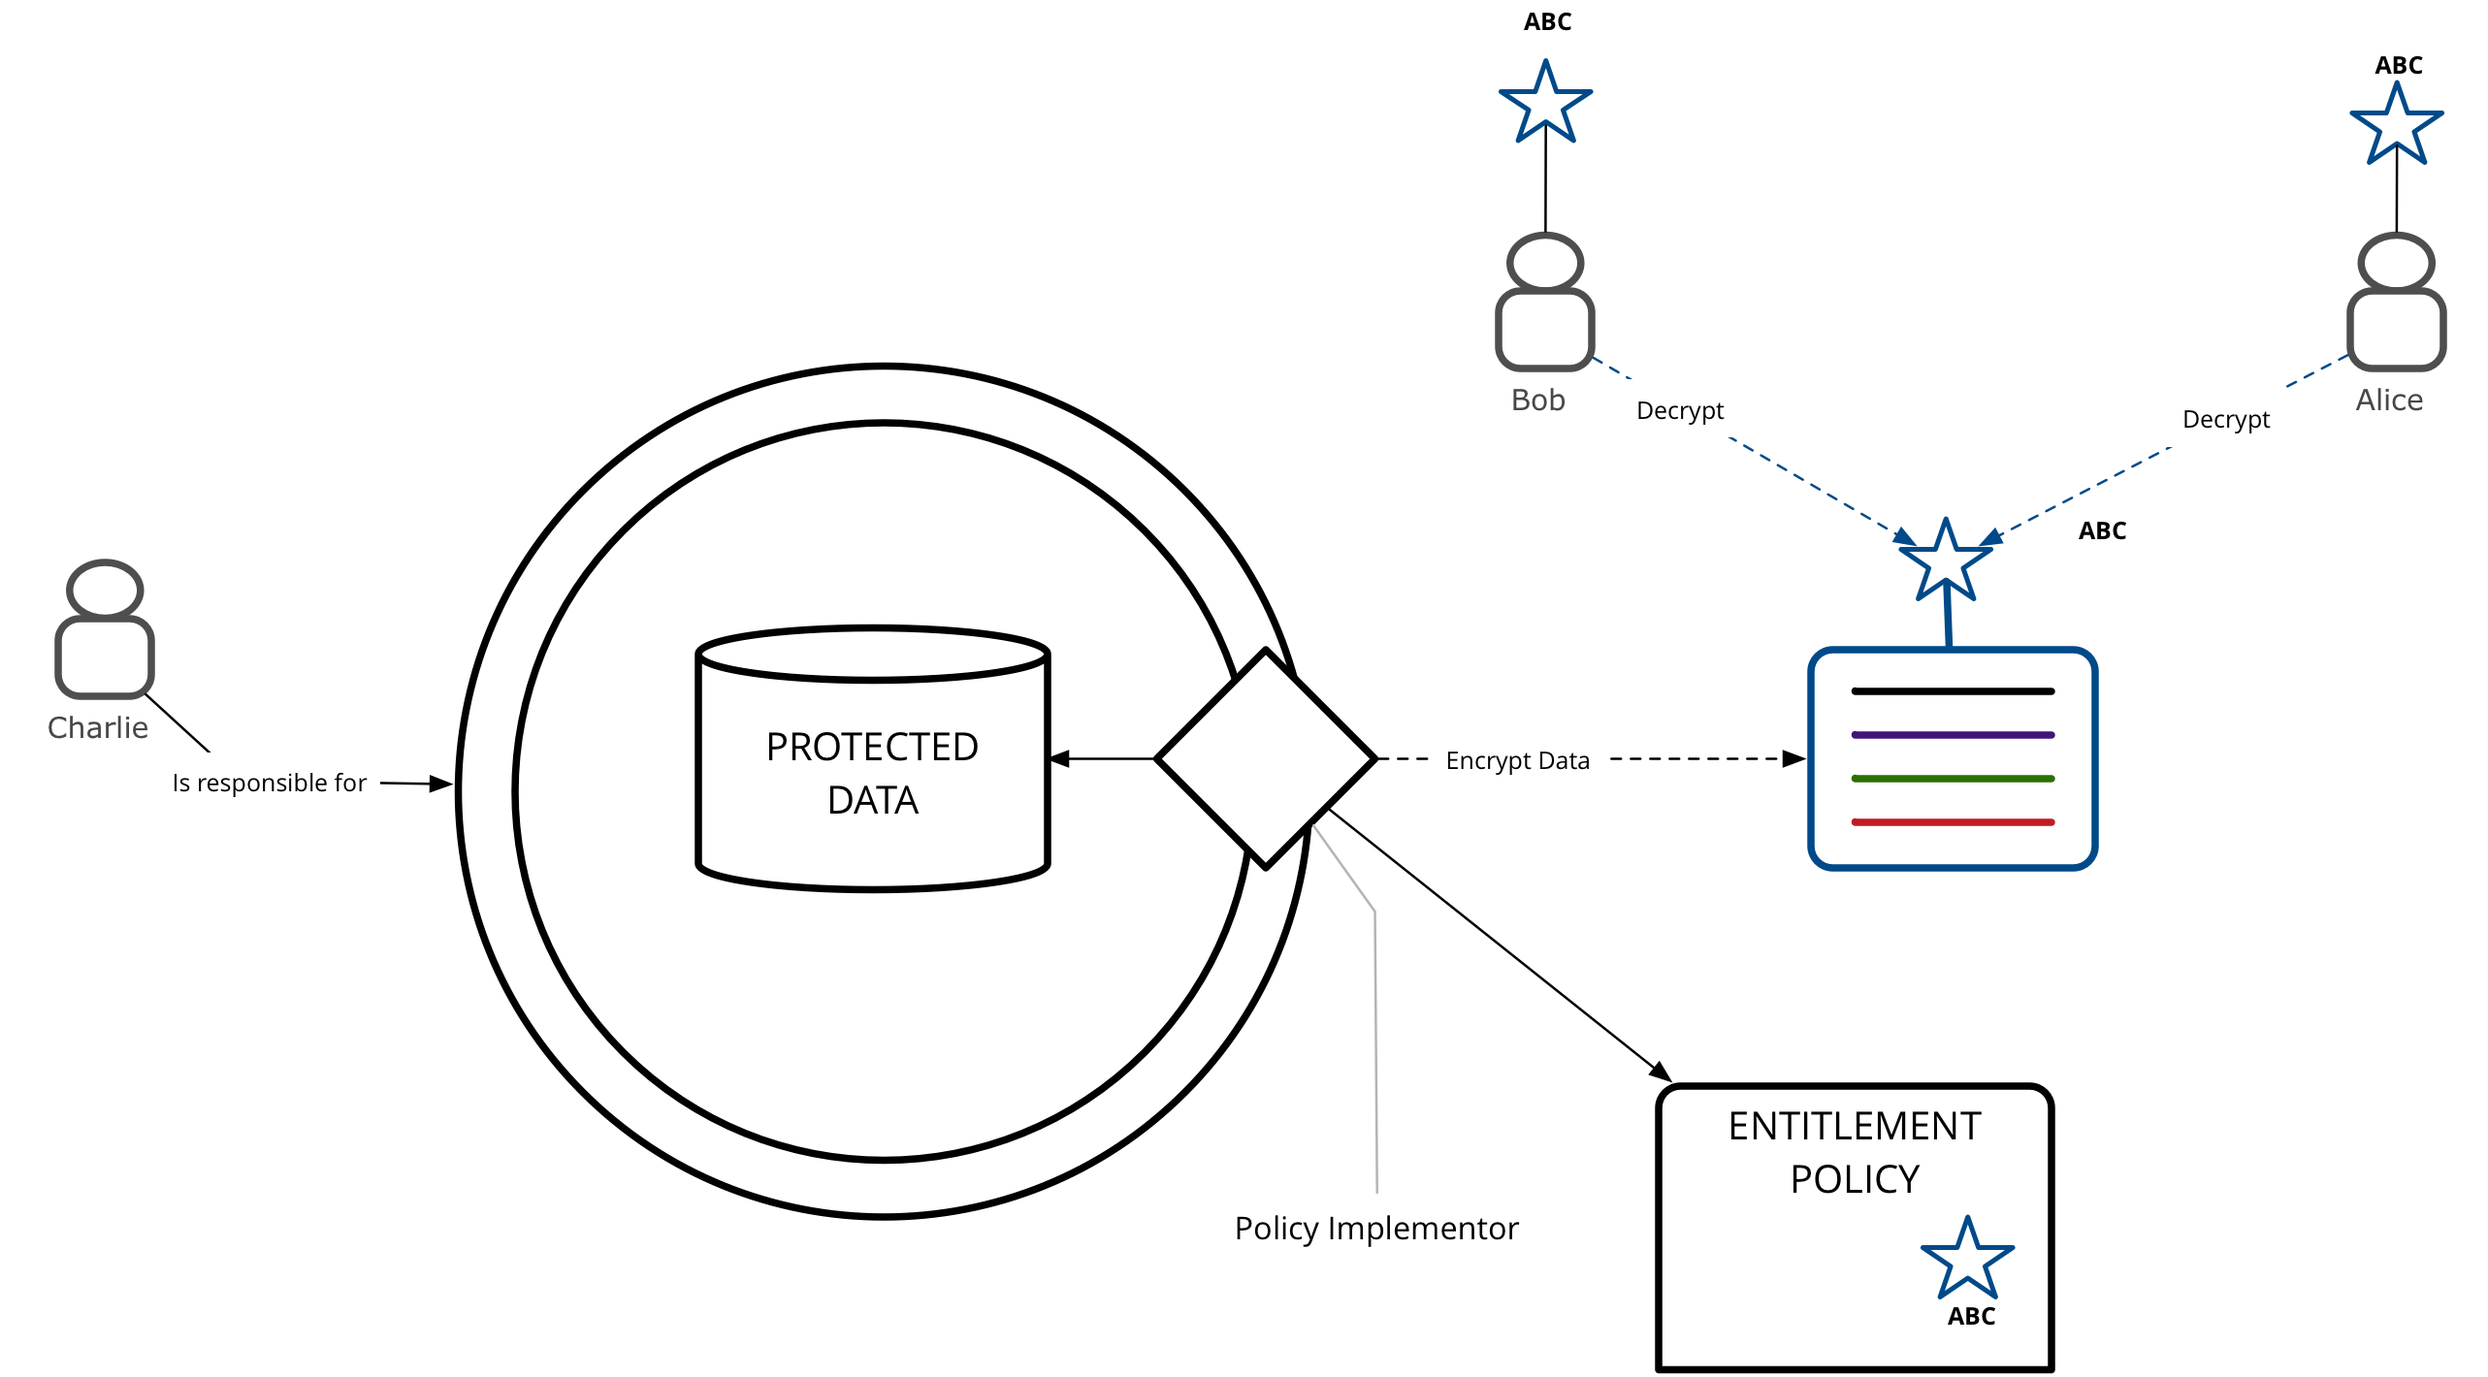
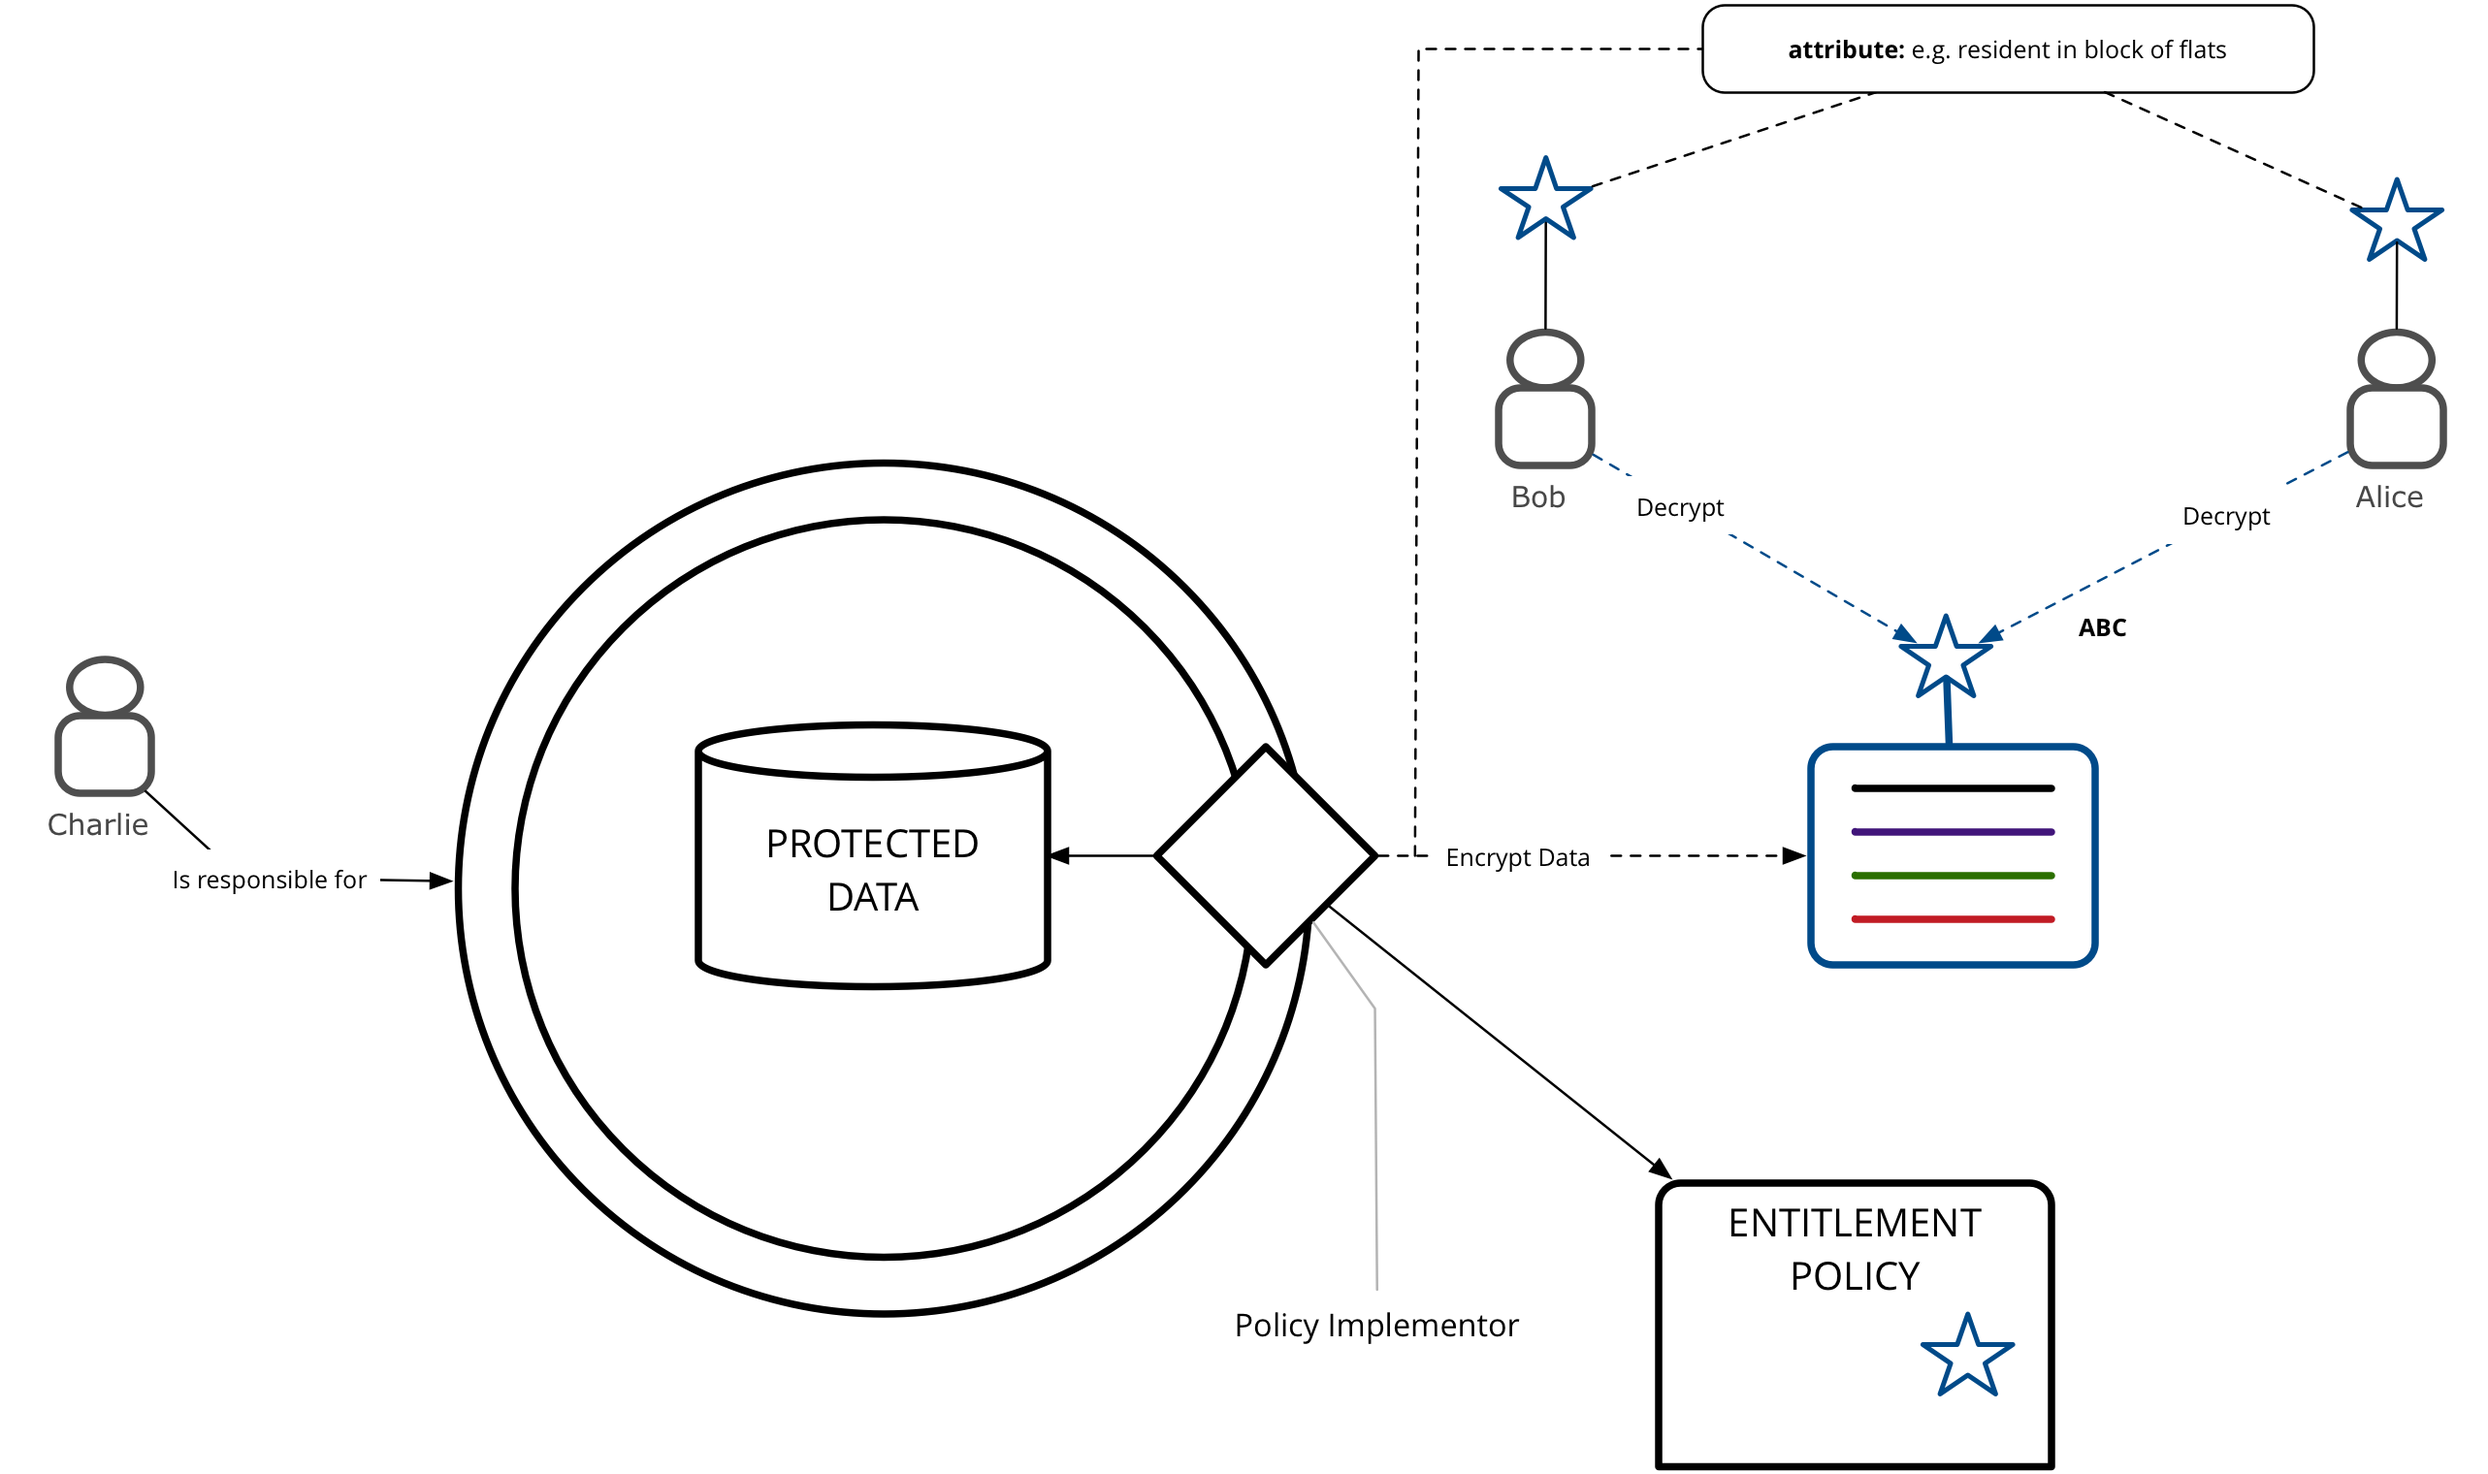
Tidying up entitlements

diff --git a/conceptual_framework.md b/conceptual_framework.md
@@ -174,11 +174,6 @@ Authentication usually involves a participant providing various personally ident
 
 A participant demonstrates control of these **attributes** through some cryptographic means (essentially by holding a private key). This private key may be embedded on a physical device that the participant owns, such as a [Ubikey](https://www.yubico.com/products/yubikey-hardware/) or Smart Card issued by a civic authority. In the case of a device issued by an authority it may also contain attributes of interest to other DECODE applications, such as the fact that one lives in a particular city. These attributes, when stored, record the provenance and the semantic meaning of the relation in their urn, and can so be "officially verified" attributes that certain applications may require (such as voting in participatory budgeting applications, see below).
 
-```comment
-jimb: How does ABC now fit in with the conceptual model of attribute verification and provenance
-```
-
-
 
 ### Attribute Provenance
 
@@ -209,10 +204,6 @@ editorial: are these direct quotes? should be blockquote?
 An attribute in this case is any indivisible piece of personal information that can be described by a bit-string, such as an identifier, a qualification or a property of an entity (Alpar, 2015).
 Informally, an Attribute-Based Credential (ABC) is a cryptographic container of attributes that can provide security assurances for all participants in the system (Alpar, 2015).
 
-```comment
-typical example below, clear why showing a credential is a (legal) *must*.
-though I prefer a non-alcoholic example
-```
 For example, when selling a bottle of wine, a vendor has to verify that their customer is over the age of 18.
 The customer shows their credential; an identity card issued by the government, to convey the information 'date of birth' to the shop owner, in order to prove that they have the attribute 'being over the age of 18'.
 ABCs provide a cryptographic way to authenticate using selectively disclosed personal attributes.
@@ -220,14 +211,13 @@ This means that in the above example, we can use an ABC credential to convey jus
 
 There are three parties involved in the use of ABCs: the issuer of the credential, the user or owner of the credential, and the party that wishes to verify a credential.
 
+![Privacy by design from IRMA](img/Transactions_IRMA_voorbereiding_en.png "User requests a credential")
+
+
+![Privacy by design from IRMA](img/Transactions_IRMA_eerste_gebruik_en.png "User presents credential")
+
 ```comment
-
-  include these images here:
-* https://privacybydesign.foundation/images/Transactions_IRMA_voorbereiding_en.png
-* https://privacybydesign.foundation/images/Transactions_IRMA_eerste_gebruik_en.png
-
- source: Privacy by Design Foundation, https://privacybydesign.foundation/irma-explanation/
-
+Need to update these diagrams so that they use the terms "Issuer" and "Relying party" as "verifier will be confusing with our term "attribute verifier"
 ```
 
 The model for ABCs in DECODE is based on Idemix (Camenisch ... ; IBM ...), since the DECODE implementation requires multiple verifications of non-identifying credentials to be unlinkable.
@@ -252,14 +242,6 @@ In order to make it straighforward for developers to build DECODE applications, 
 
 ## Entitlements
 
-```
-tomd: this needs to be rewritten / elaborated, in the current form it does not address the idea of attribute-based dynamic entitlements.
-jimb: I'm not sure I understand 'attribute-based dynamic entitlements'
-tomd: as in age, f.i.; when I turn 18 entitlements might change
-
-jimb: need to agree our terminology here, subject vs data owner etc
-```
-
 We define two parties in any given data exchange, the **data owner** and the **data consumer**. An **entitlement** is an agreement of disclosure controlled by the **data owner**. A **data entitlement**  concerns the sharing of data. In DECODE an **entitlement** is defined in a **policy**  *and* implemented with the application of cryptography.
 
 
@@ -281,6 +263,10 @@ There are 4 key elements to an entitlement policy :
 - With **whom** is the data owner sharing data
 - For what **purpose**
 - Under what **conditions** will the data consumer use the data (e.g. [https://opendatacommons.org/licenses/pddl/](https://opendatacommons.org/licenses/pddl/))
+- What is the **timeframe** within which this entitlement is valid (Expiry date)
+- How does the entitlement respond to changes to the value of the attribute
+
+This last point is a subject of further research and exploration - how should an entitlement be considered when the underlying attribute is super-seeded. For example If a participant provides a new address to the application, does the entitlement automatically apply to the new address? It may be possible to express such "rules" using the Smart Rules language.
 
 Rather than attempting to build a hierarchical entitlements system by classifying certain attributes into privacy groups, such as "sensitive, personal, public" DECODE specifies all entitlements at the granularity of individual attributes.
 
@@ -296,9 +282,7 @@ DECODE defines three possible access levels:
 
 In most cases, the participants in the system will not be creating the entitlements directly, they will be interacting with DECODE applications. These applications will have the ability to declare what entitlements they require and the participants can agree to them, in much the same way that users can accept authorisation grants using OAuth.
 
-```
-markd - I think we should choose one propsed implementation??
-```
+
 
 ### Implementation (Access control)
 
@@ -311,15 +295,36 @@ Defining and declaring entitlements is a matter of describing access rules. In o
 
 #### Using ABC as an authorization mechanism
 
+In this scenario, we leverage a "traditional" architecture whereby a central entity stores data of many people and protects it by means of access control implementations. DECODE allows for the possibility to be integrated with such systems as the source of authorisation information. By referring to entitlement policies stored within DECODE, the application can then accept Attribute based credentials presented by users and validate them agains the policy, in order to make an authorisation decision. This model allows for DECODE to be easily integrated to existing systems whilst still providing state of the art cryptographic security. 
+
+The implementation of this will be based around the [Json Web Token (JWT)](https://tools.ietf.org/html/rfc7519) specification.
+
 !['Data vault' access control](img/access-control-data-vault.png "'Data vault' access control")
 
 
-#### Using ABE to protect data for public distribution
+#### Using ABE as an access control mechanism
 
-Protected at rest
+Evolving the model towards a more decentralised approach, DECODE proposes that data can be encrypted in order that it can be stored in the open (for example on a massively distributed file sharing system such as IPFS. A baseline implementation of this would be simply to encrypt the data with the public key of every user who has the entitlement. DECODE will explore the use of Attribute Based Encryption (ABE) a state of the art cryptographic mechanism which is an evolving topic but that has the potential to significantly reduce the overhead of allowing groups of people cryptographic access to an encrypted data source. 
+
+At a high level, it relates cryptographically an attribute that the participants possess to the encryption of the data. In one way this can be seen as each participant owning a key which is unique to them, where the encrypted data can be decrypted by any of the keys. For example a participant "Charlie" may want to share their monthly energy usage with other members of their block of flats. Charlie can use ABE to encrypt using the public key of the attribute "member of block of flats" such that anyone else in the block can decrypt it. In this model, DECODE enables the owner of the data to enforce the access control as opposed to relying on a third party as in the previous scenario.
+
+ABE allows users to encode more complex access conditions. For example you can encrypt a party invite only for your neighbours: ```( NOT ('being under the age of 18') AND 'being a resident of my block')```
+The data can be encrypted in such a way that only individual agents with those particular set of attributes in their wallet can decrypt the message.
+
+![Attribute based encryption](img/attribute-based-encryption.png "Attribute based encryption")
+
+The main models for ABE come from [@ABE] and [@ABE_CP].
+Reference implementations are available, but at the time of writing none have been selected to be supported by DECODE.
+
+The design of DECODE will try to support this method of user controlled access policies.
 
 
-![Attribute based encryption access control](img/abe-with-abc.png "Traditional 'data vault' access control")
+One of the complexities with ABE is the scheme by which keys are issued. Many existing schemes rely on a central party to issue and manage keys. DECODE will explore more decentralised models in this space. 
+
+However, if the participants wished to broadcast their data to a larger, but still restricted, set of users; this method of access control will turn into a key-distribution problem; which is outside of the scope of the main functionality of DECODE at this stage.
+
+
+![Attribute based encryption access control](img/abe-with-abc.png "Attribute based encryption access control")
 
 
 
@@ -329,39 +334,13 @@ Protected at rest
 
 We require a mechanism for controlling access to either large datasets or streams of data. Perhaps I wish to publish a dataset including all my movement data from my phone for the last two months and yet control access to certain attributes.
 
-Options:
+This is also an ongoing research topic within DECODE. Potential options arE:
 
 - Encrypt each data item in the list as above
 - Separate the data into "columns" ie. each data attribute is becomes an array of values and these are then encrypted using ABE
 - Investigate DRM tech for encrypting large (e.g. Video) streams can similar approaches be applied to user data?
 
 
-### Attribute Based Encryption
-
-```comment
-Curator: Paulus
-```
-
-Within DECODE Resources are either *public* or *restricted*.
-(Some data is personal data, other data is not. The architecture cannot and does not distinguish that at the architecture layer.)
-Restricted data is *encrypted*.
-
-Encryption is one of the methods of access control that can be used within the ecosystem of DECODE data and attributes.
-The access control policy therefore will be enforced by the (original) owner of the data.
-
-However, if the users wished to broadcast their data to a larger, but still restricted, set of users; this method of access control will turn into a key-distribution problem; which is outside of the scope of the main functionality of DECODE.
-
-A solution for this problem can be found in Attribute Based Encryption (ABE).
-ABE allows users to encode complex access conditions based on the possession of attributes into the encryption of their data.
-For example you can encrypt a party invite only for your neighbours: ```( NOT ('being under the age of 18') AND 'being a resident of my street')```
-The data can be encrypted in such a way that only individual agents with those particular set of attributes in their wallet can decrypt the message.
-
-![Attribute based encryption](img/attribute-based-encryption.png "Attribute based encryption")
-
-The main models for ABE come from [@ABE] and [@ABE_CP].
-Reference implementations are available, but at the time of writing none have been selected to be supported by DECODE.
-
-The design of DECODE will try to support this method of user controlled access policies.
 
 ## Distributed Ledger
 
